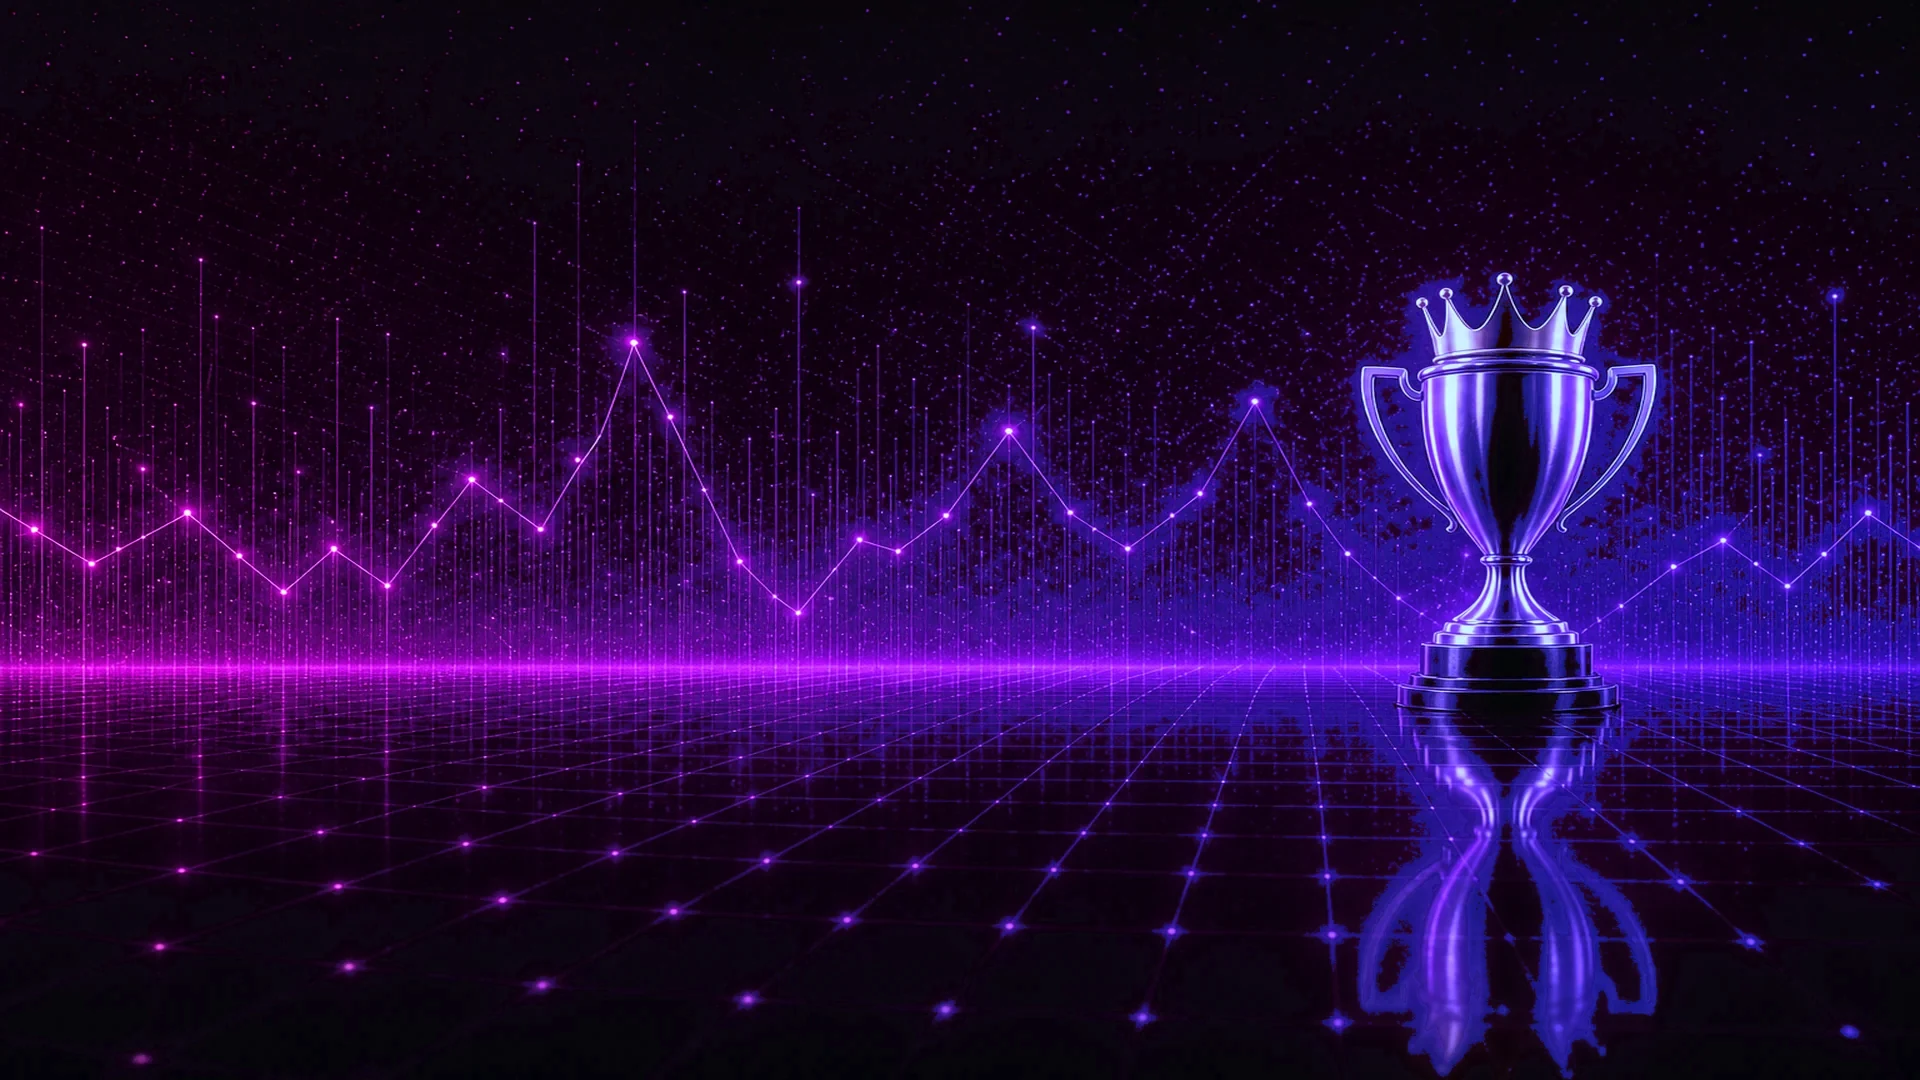
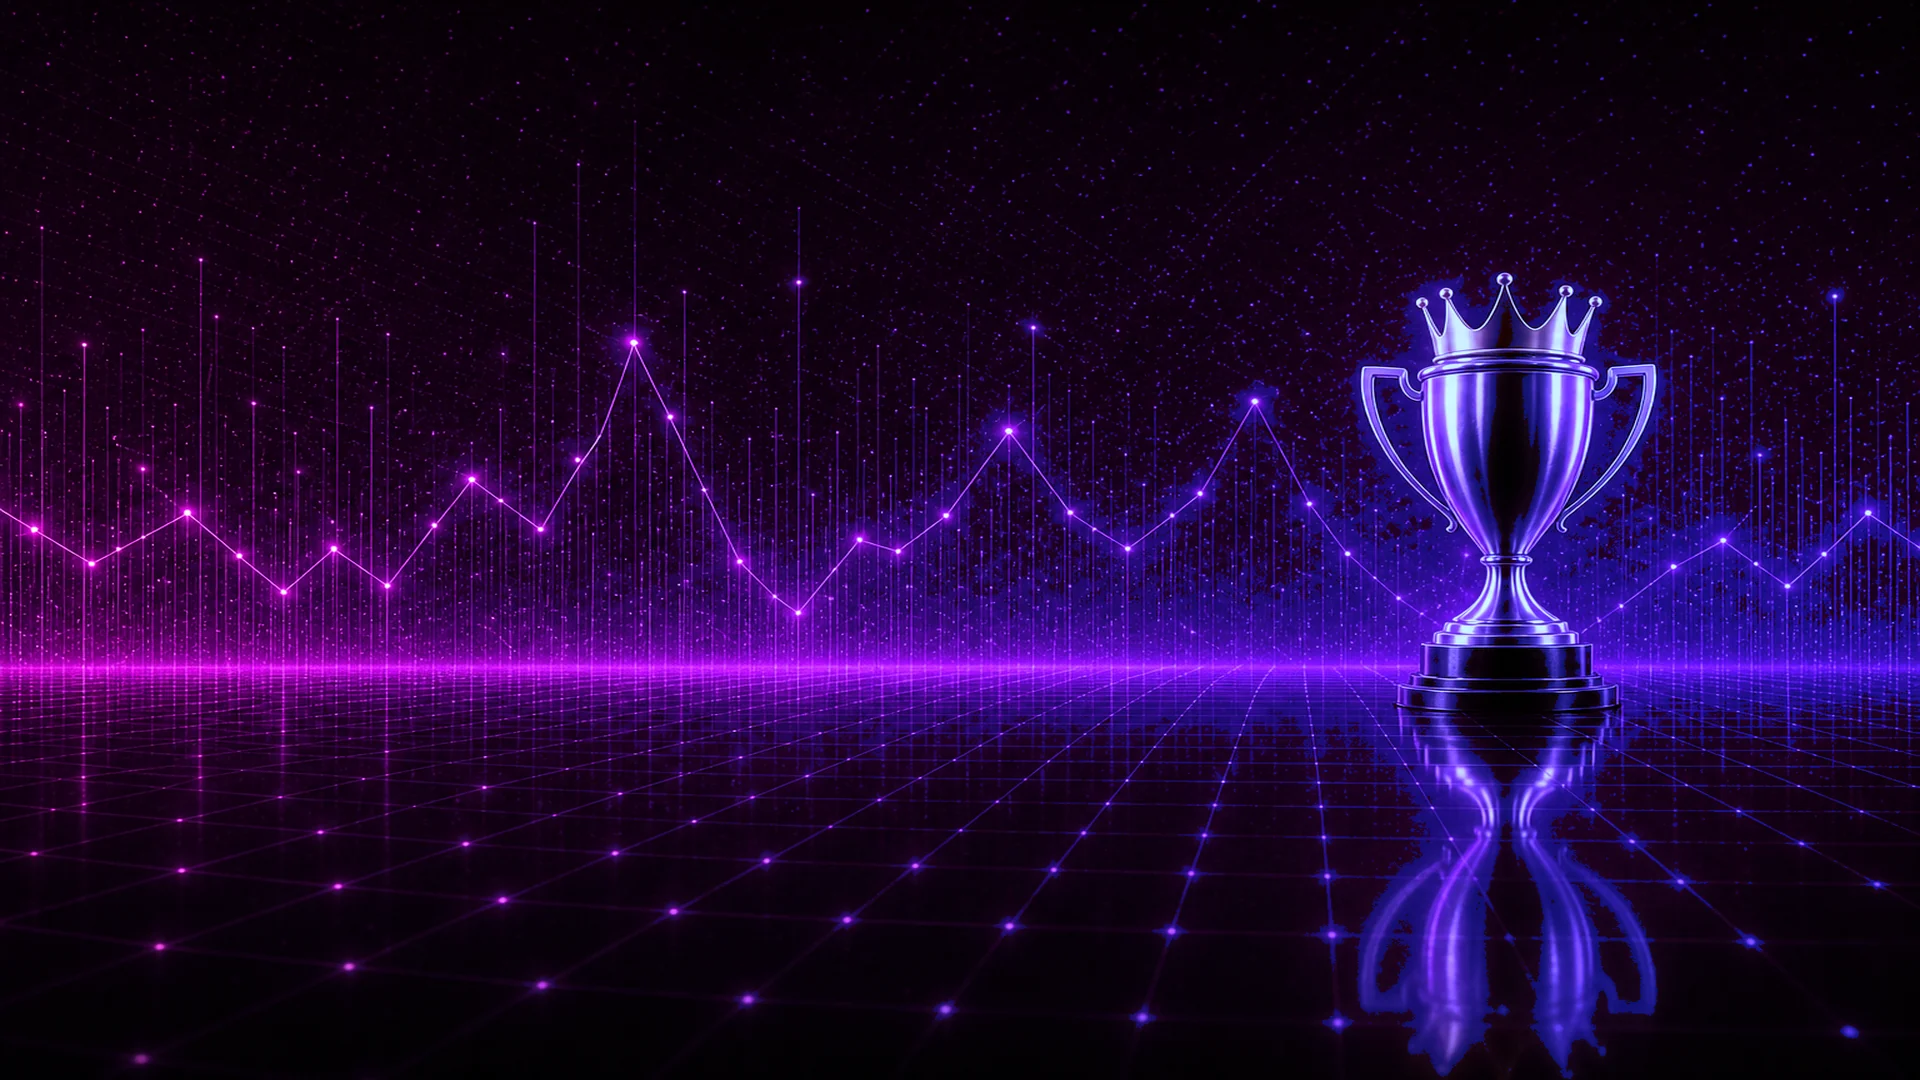
fix(design): restore exact magenta/cobalt hero and baseline blues
The prior “slight lighten” overshot into a washed grade. Restore the
#165-era WebPs byte-for-byte and put --scl-blue back to #105FD9 / #044CB6.

diff --git a/src/app/globals.css b/src/app/globals.css
@@ -93,7 +93,7 @@
   --scl-pink: #a6007f;
   --scl-pink-deep: #8d006a;
   --scl-pink-ink: #fff3fc;
-  --scl-blue: #0a58c9;
+  --scl-blue: #044cb6;
   --scl-blue-deep: #0043ac;
   --scl-blue-ink: #f1f9ff;
 
@@ -196,7 +196,7 @@
   --scl-pink: #a6007f;
   --scl-pink-deep: #8d006a;
   --scl-pink-ink: #fff3fc;
-  --scl-blue: #0a58c9;
+  --scl-blue: #044cb6;
   --scl-blue-deep: #0043ac;
   --scl-blue-ink: #f1f9ff;
 }
@@ -215,8 +215,8 @@
   --scl-pink: #ba008e;
   --scl-pink-deep: #8d006a;
   --scl-pink-ink: #fff3fc;
-  --scl-blue: #1c6ae6;
-  --scl-blue-deep: #0a58c9;
+  --scl-blue: #105fd9;
+  --scl-blue-deep: #0043ac;
   --scl-blue-ink: #f1f9ff;
 
   --scl-win: #2fbf7b;

diff --git a/docs/SCL_ASSET_MANIFEST.md b/docs/SCL_ASSET_MANIFEST.md
@@ -6,10 +6,10 @@ text, metrics, controls, or logos; those remain accessible HTML and code-native 
 Remote sports marks are **self-hosted** (optional) under `public/marks/`, gated by a static
 manifest — never hotlinked. Missing marks always render the monogram/lettermark fallback.
 
-| Asset                             |  Dimensions | Use                         | Treatment                                                                                        |
-| --------------------------------- | ----------: | --------------------------- | ------------------------------------------------------------------------------------------------ |
-| `leaderboard-trophy-desktop.webp` | 1920 x 1080 | Home hero at `sm` and above | Continuous magenta + cobalt scene; trophy right; blues lifted only slightly from the prior grade |
-| `leaderboard-trophy-mobile.webp`  | 1080 x 1920 | Home hero below `sm`        | Matching portrait; magenta chart + cobalt atmosphere (slightly lighter blues only)               |
+| Asset                             |  Dimensions | Use                         | Treatment                                                                                  |
+| --------------------------------- | ----------: | --------------------------- | ------------------------------------------------------------------------------------------ |
+| `leaderboard-trophy-desktop.webp` | 1920 x 1080 | Home hero at `sm` and above | Exact magenta + cobalt continuous scene (baseline grade); trophy right with crown headroom |
+| `leaderboard-trophy-mobile.webp`  | 1080 x 1920 | Home hero below `sm`        | Matching portrait; magenta chart + cobalt atmosphere (same baseline grade)                 |
 
 ## League / team marks (self-hosted)
 
@@ -62,5 +62,6 @@ Mobile:
 > third and edges. Fully visible cobalt-lit trophy with margin above the crown. No collage, seam,
 > flat black void, text, logos, UI, people, or watermark.
 
-When owners ask to “lighten the blue,” apply a **slight** cobalt lift in pixels or a one-step
-token nudge (`docs/SCL_VISUAL_IMPLEMENTATION.md` design matrix). Do not regrade the whole scene.
+When owners ask to “lighten the blue,” keep the magenta + cobalt identity. Prefer an owner-
+approved art swap or a **tiny** token nudge — never a sky/electric regrade or a broad pixel
+lighten pass that washes the scene.

diff --git a/docs/SCL_VISUAL_IMPLEMENTATION.md b/docs/SCL_VISUAL_IMPLEMENTATION.md
@@ -26,12 +26,12 @@ The experience should communicate three ideas within seconds:
 read as all-magenta. Do **not** push hero or UI blues into washed sky/electric territory — cobalt
 stays deep; only a **slight** lift from the prior grade is allowed when owners ask for “lighter.”
 
-Current chrome blues (slight lift from v1.1 baseline):
+Current chrome blues (exact cobalt baseline — do not drift toward sky/electric):
 
-| Theme | Prior (`#165` era) | Current (slight lift) |
-| ----- | ------------------ | --------------------- |
-| Dark  | `#105FD9`          | `#1C6AE6`             |
-| Light | `#044CB6`          | `#0A58C9`             |
+| Theme | Token     |
+| ----- | --------- |
+| Dark  | `#105FD9` |
+| Light | `#044CB6` |
 
 Source of truth for roles remains `design/SCL-DESIGN-SPEC.md` v1.1; hexes above sync
 `src/app/globals.css`.
@@ -89,8 +89,9 @@ Implemented in `src/components/scl/competition-hero.tsx`. Layers must stay in th
 2. Slide changes must not remount with `scl-reveal` translateY (that “rumbles” the page). Stack
    slides in one CSS grid cell and fade opacity.
 3. Never reintroduce cover+contain dual images (reads as a paste seam).
-4. If art feels “too dark,” prefer a **subtle** cobalt lift in the WebP or a 1-step token nudge —
-   not a full regrade to electric blue.
+4. If art feels “too dark,” prefer a **tiny** pixel-level cobalt lift or owner review — never a
+   full regrade to electric/sky blue, and never leave a programmatic lighten pass that changes
+   the magenta/cobalt identity.
 
 ## Responsive composition
 

diff --git a/design/SCL-DESIGN-SPEC.md b/design/SCL-DESIGN-SPEC.md
@@ -1,8 +1,8 @@
 # SCL Design Specification — "The Ledger & The Board"
 
-Version 1.1.1 — This file is LAW. Models apply it; they do not reinterpret it.
+Version 1.1.2 — This file is LAW. Models apply it; they do not reinterpret it.
 
-v1.1.1: navigation blues slightly lifted (`#1C6AE6` dark / `#0A58C9` light) while staying
+v1.1.1: navigation blues slightly lifted (`#105FD9` dark / `#044CB6` light) while staying
 cobalt. Hero atmosphere remains magenta + cobalt — see `docs/SCL_VISUAL_IMPLEMENTATION.md`.
 
 ## Identity thesis
@@ -42,8 +42,8 @@ direction. Ink surfaces unchanged from v1.0.
 --scl-pink:#BA008E; /_ conviction — darker pink _/
 --scl-pink-deep:#8D006A;
 --scl-pink-ink:#FFF3FC; /_ text on pink _/
---scl-blue:#1C6AE6; /_ navigation — slight lift from #105FD9; stay cobalt, not sky _/
---scl-blue-deep:#0A58C9;
+--scl-blue:#105FD9; /_ navigation — cobalt baseline _/
+--scl-blue-deep:#0043AC;
 --scl-blue-ink:#F1F9FF; /_ text on blue _/
 --scl-win:#2FBF7B;
 --scl-loss:#E5484D;
@@ -59,7 +59,7 @@ direction. Ink surfaces unchanged from v1.0.
 --scl-ink-700:#F5F3ED; --scl-ink-600:#E9E5DA; --scl-line:#D8D3C4;
 --scl-text:#161B26; --scl-muted-label:#6E7686; --scl-muted-data:#454E60;
 --scl-pink:#A6007F; /_ deepened for paper contrast _/
---scl-blue:#0A58C9; /_ slight lift from #044CB6; stay cobalt on paper _/
+--scl-blue:#044CB6; /_ cobalt on paper _/
 
 ## Typography (next/font/google)
 
